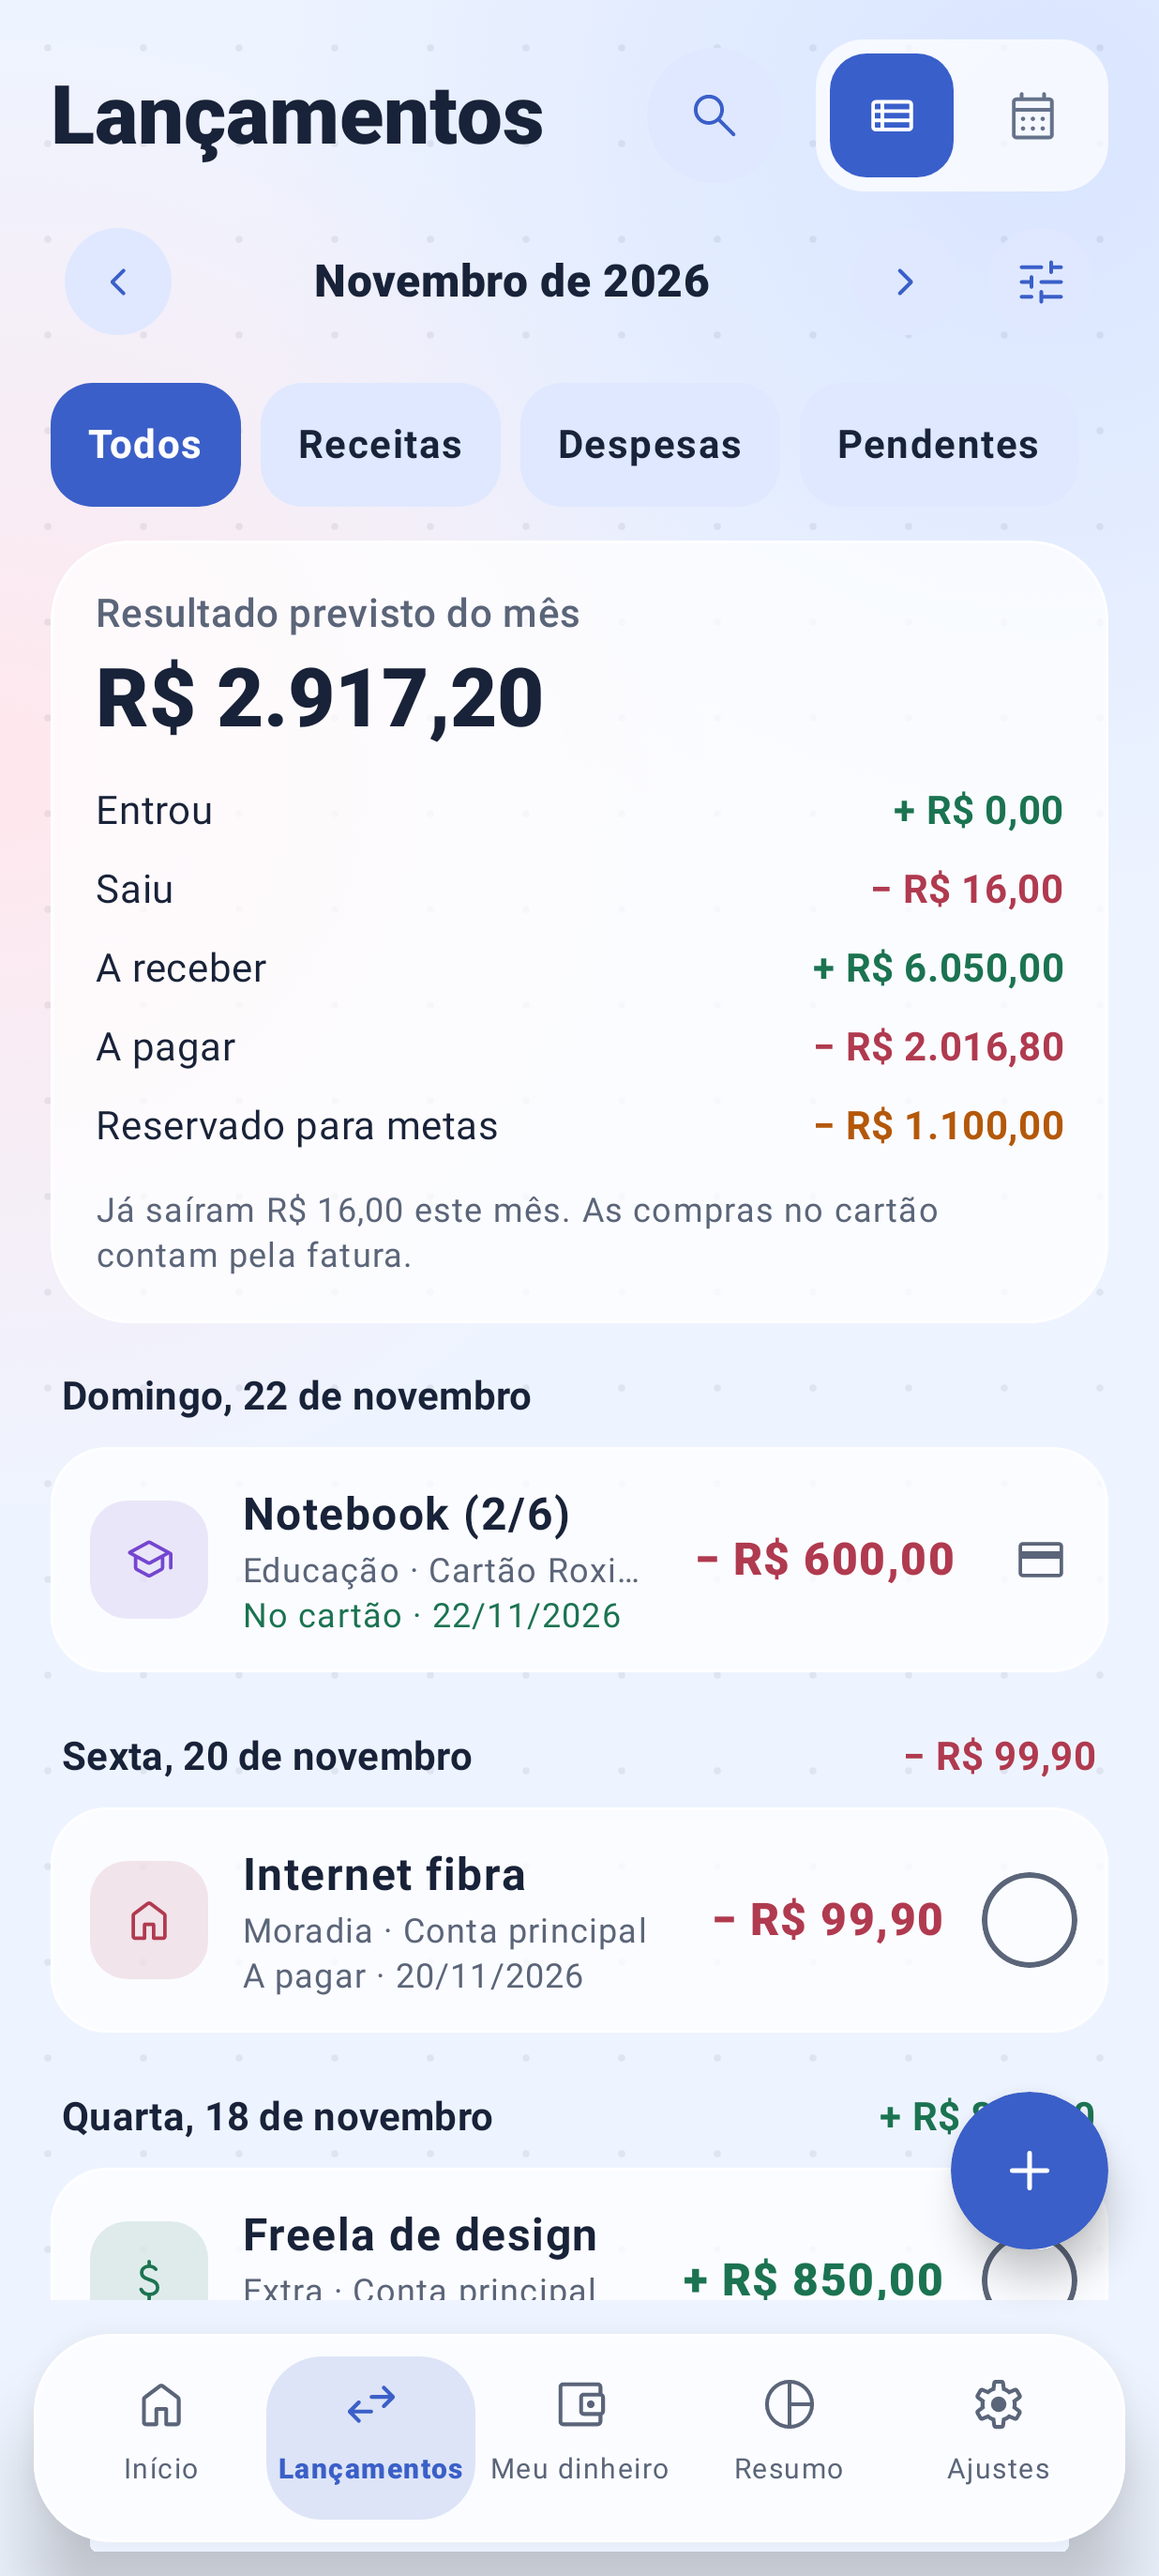
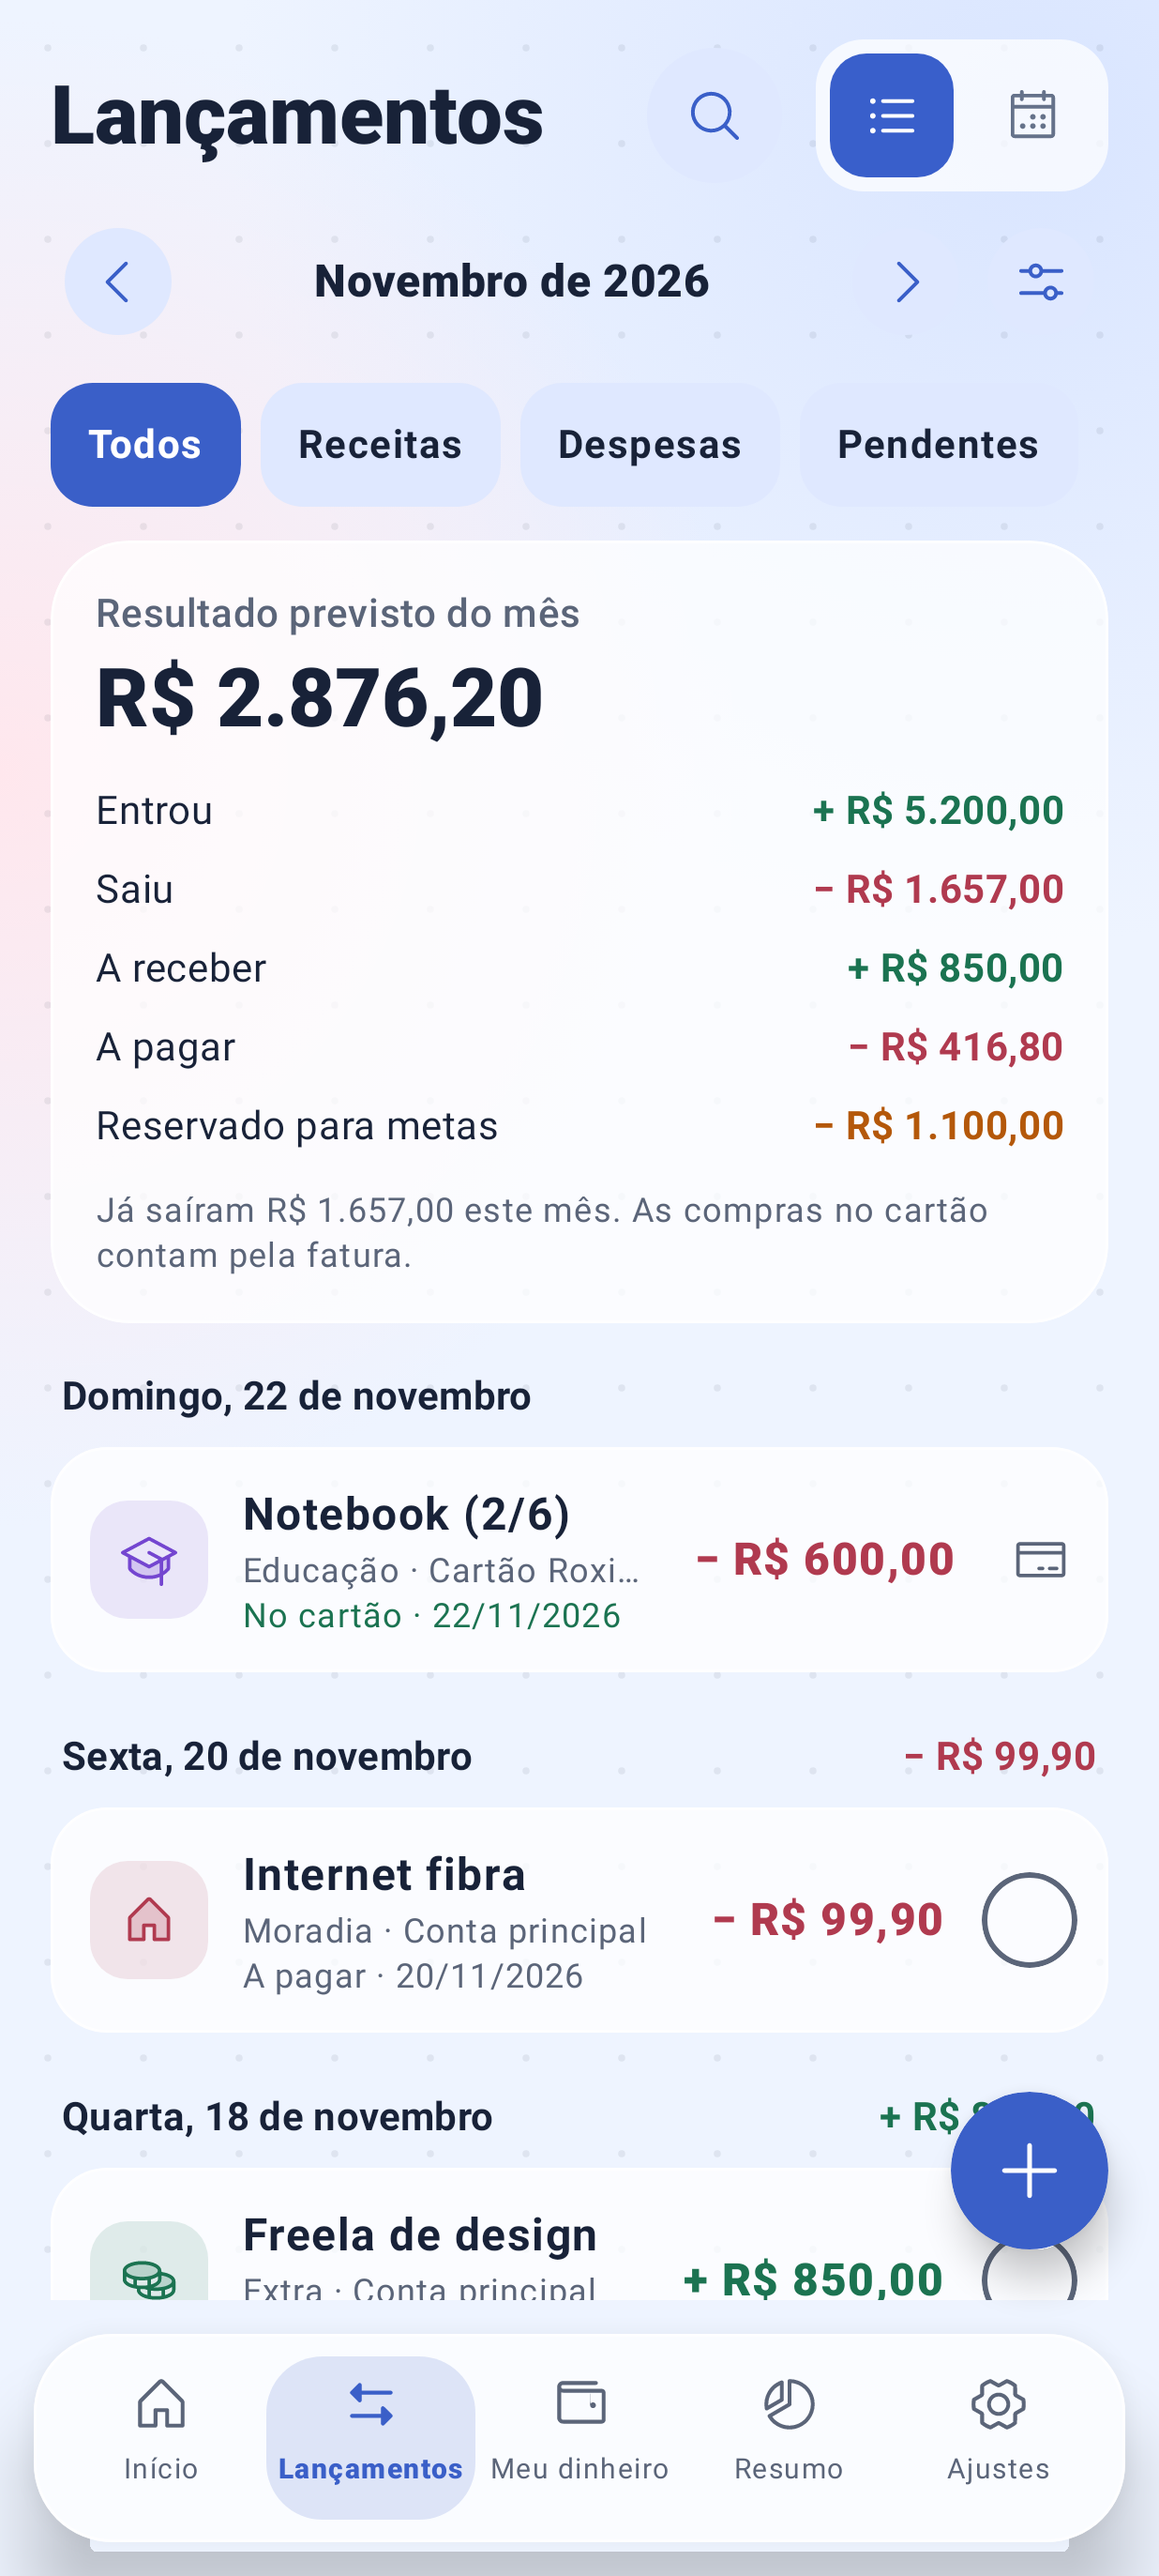
Sincronizar com o oficial: versão 1.12.0
Traz do repositório oficial (finanplus-web/finan_plus_android) a versão
1.12.0: versionCode 21, CHANGELOG, novidades no README (pt e en), notas e
capturas do F-Droid e fdroid/com.finanplus.yml. O código é o mesmo da main.

Claude-Session: https://claude.ai/code/session_01XGMm7KRGftdTQRWpA12RaA

diff --git a/CHANGELOG.md b/CHANGELOG.md
@@ -1,8 +1,8 @@
 # Changelog
 
-## Em desenvolvimento
+## 1.12.0 — Ícones Phosphor e Finan+ web 1.5.0 no Acesso pela rede (11/11/2026)
 
-- **Ícones Phosphor:** todos os ícones do app trocados de Material Symbols para Phosphor Icons (MIT): peso Regular nas listas e botões, Fill na aba ativa da barra inferior e no Assistente, Duotone nos ícones dentro de quadrados (categorias, Meu dinheiro, Ajustes). A aba Meu dinheiro ganhou a versão preenchida da carteira quando está ativa. Só o desenho mudou: telas, textos e cálculos são os mesmos. Mapa completo em [ICONES.md](ICONES.md).
+- **Ícones Phosphor:** todos os ícones do app trocados de Material Symbols para Phosphor Icons (MIT): peso Regular nas listas e botões, Fill na aba ativa da barra inferior e no Assistente, Duotone nos ícones dentro de quadrados (categorias, Meu dinheiro, Ajustes). A aba Meu dinheiro ganhou a versão preenchida da carteira quando está ativa. Só o desenho mudou: telas, textos e cálculos são os mesmos. As setas de "Falta receber", "Falta pagar" e "Adicionar movimentação" ficam no círculo (`arrow-circle-up` / `arrow-circle-down`). Mapa completo em [ICONES.md](ICONES.md).
 - **Acesso pela rede com o Finan+ web 1.5.0:** a cópia do PWA dentro do app (`app/src/main/assets/lan/pwa`) foi atualizada com `tools/sync-pwa.sh` a partir do Finan+ web 1.5.0, com o mesmo visual e as mesmas regras desta versão (cálculo único, Meu dinheiro com páginas, nova tela de lançamento, reservas para meta e despesas compartilhadas). O navegador do computador passa a mostrar e editar as reservas para meta e as despesas compartilhadas.
 
 ## 1.11.0 — Redesign premium e coerente: um número, um nome, uma regra (03/11/2026)

diff --git a/README.en.md b/README.en.md
@@ -10,6 +10,12 @@ This is the native Android version, written in **Kotlin + Jetpack Compose**: dat
 
 The app itself is in Brazilian Portuguese and uses the Brazilian real (R$). The detailed feature documents are in Portuguese.
 
+## What's new in 1.12.0
+
+- **New icons:** every icon in the app is now from Phosphor Icons (MIT license), lighter and rounder: Regular strokes in lists and buttons, the filled version on the active bottom tab and Duotone for icons inside squares (categories, My money, Settings). "To receive" and "To pay" use arrows in a circle. Only the drawings changed. Details: [ICONES.md](ICONES.md).
+- **Network access with Finan+ web 1.5.0:** the computer's browser shows the same look and rules as the app, including goal reserves and shared expenses.
+- No calculation rule or saved data changed. Full list in [CHANGELOG.md](CHANGELOG.md).
+
 ## What's new in 1.11.0
 
 - **One number, one name, one rule:** Home, Transactions (list and calendar), Summary and the widget share the same calculation for To receive, To pay, Reserved for goals and Forecast. Money already saved in a goal is no longer subtracted twice, and overdue items show up in "To pay".

diff --git a/README.md b/README.md
@@ -6,6 +6,12 @@ Esta é a versão nativa para Android, em **Kotlin + Jetpack Compose**: dados cr
 
 **English:** [README.en.md](README.en.md)
 
+## Novidades da versão 1.12.0
+
+- **Ícones novos:** todos os ícones do app agora são Phosphor Icons (licença MIT), mais leves e arredondados: traço Regular nas listas e botões, versão preenchida na aba ativa da barra inferior e Duotone nos ícones dentro de quadrados (categorias, Meu dinheiro, Ajustes). "Falta receber" e "Falta pagar" usam setas no círculo. Só o desenho mudou. Detalhes em [ICONES.md](ICONES.md).
+- **Acesso pela rede com o Finan+ web 1.5.0:** o navegador do computador mostra o mesmo visual e as mesmas regras do app, incluindo reservas para meta e despesas compartilhadas.
+- Nenhuma regra de cálculo nem dado salvo mudou. Lista completa em [CHANGELOG.md](CHANGELOG.md).
+
 ## Novidades da versão 1.11.0
 
 - **Um número, um nome, uma regra:** Início, Lançamentos (lista e calendário), Resumo e widget usam o mesmo cálculo de A receber, A pagar, Reservado para metas e Previsto. A meta já guardada não é descontada de novo e os atrasados aparecem no "A pagar".
